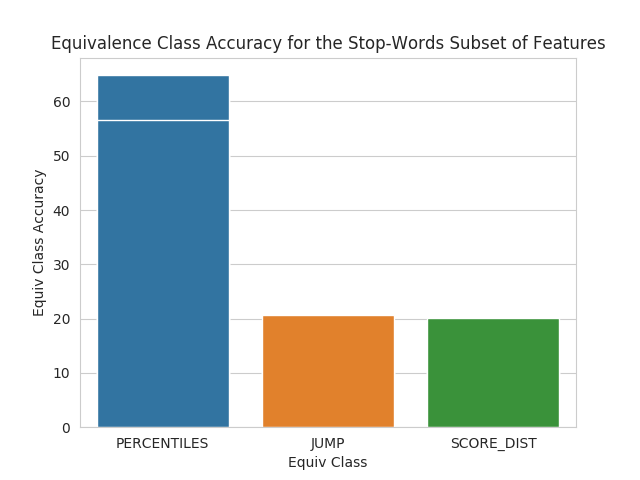
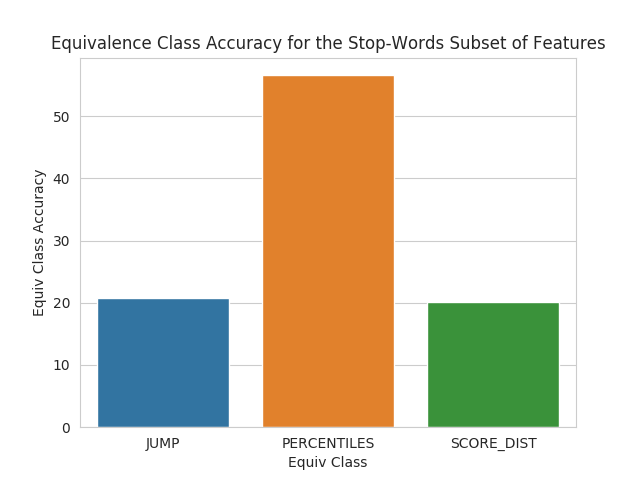
There's graphs and stuff
But the important part is that I fixed data pre-processing. It kept on
giving information about users for the worldbuilding dataset. I don't
have time to find a solution so I dumped a new parameter in a method.

diff --git a/src/characterisation/experiments/plotty.py b/src/characterisation/experiments/plotty.py
@@ -70,14 +70,10 @@ def calcAccies(resultsDF):
             # ? I might want a count of how many times each class size is encountered
             # ? so not just how many times they are correct.
 
-            # Just making sure it's initialised and doesn't get overriden
-            equivAccies[f"Correct Class Size {myRow['Class Size']}"] = equivAccies[f"Correct Class Size {myRow['Class Size']}"]
-
             if myRow["Exact User Predicted"]:
                 equivAccies["Correct User Predictions"] += 1
             if myRow["Correct Class Predicted"]:
                 equivAccies["Correct Class Predictions"] += 1
-                equivAccies[f"Correct Class Size {myRow['Class Size']}"] += 1
 
         equivAccies["Equiv Class"] = equiv
         equivAccies["User Accuracy"] = 100 * equivAccies["Correct User Predictions"] / numRecords
@@ -96,27 +92,10 @@ def calcAccies(resultsDF):
     return acciesDF
 
 """
-Given the dataframe made from the user and equivalence class accuracies for a single model, 
-make a new dataframe focused on equivalence classes. This new DF should allow for showing the 
-relationship between attributes like class size to accuracy.
-"""
-def calcEquivs(resultsDF):
-    # * Sum up the correct counts for each class size and calculate the accuracy.
-
-    print(completeDF.columns)
-
-    filtSizesDF = completeDF.drop(list(completeDF.filter(regex="String|User")), axis=1)
-    # filtSizesDF = completeDF.filter(regex="Correct Class Size (\d)+|Record Count")
-    print(filtSizesDF.columns)
-    print(filtSizesDF)
-
-    # x-axis class size, y-axis accuracy
-
-"""
 Automatically plots all of the graphs as per the accuracies of the
 generated probabilities.
 """
-def plot(myArgs):
+def plot():
     sns.set_style('whitegrid')
     allDFs = []
 
@@ -133,32 +112,19 @@ def plot(myArgs):
         acciesDF["Feature Set"] = myDir
         acciesDF.fillna(0, inplace=True, axis=1)
 
+        if myDir == "AveragesWords":
+            print(f"DF Cols: {resultsDF.columns}")
+
         plotAccies(acciesDF, myDir)
+        plotEquivs(resultsDF, myDir)
 
         allDFs.append(acciesDF)
         print()
 
-
     completeDF = pd.DataFrame().append(allDFs)
     completeDF.fillna(0, inplace=True)
 
-    calcEquivs(completeDF)
     plotCorr(completeDF)
-
-    # print(completeDF)
-    # print(completeDF.columns)
-
-    # pprint(acciesDF[acciesDF["Equivalence Method"] == "JUMP"])
-
-    # #Plot the relationship between class accuracy and class size
-    # plotti = sns.scatterplot(x="kernel", y="Class Accuracy", hue="Equivalence Method", data=acciesDF) \
-    #             .set_title("Relation between class accuracy and SVM Kernel")
-    # # plotti = sns.violinplot(x="Equivalence Method", y="Class Accuracy", data=acciesDF) \
-    #     # .set_title("Comparision between equivalence class methods")
-    # # plotti = sns.violinplot(x="" data=acciesDF)
-    # # plotti = sns.heatmap(acciesDF.corr()).set_title("Correlation between class accuracy and user accuracy")
-
-    # plt.show()
 
 """
 Plot the graphs relating to the accuracy of equivalence class predictions 
@@ -167,6 +133,8 @@ and user predictions.
 def plotAccies(acciesDF, featureSubset, chartType=ChartType.BAR):
     plotTitle = f"Equivalence Class Accuracy for the {formatSubsets(featureSubset)} Subset of Features"
     plotti = None
+
+    plt.clf() # ! Clearing plots so they don't overlap
 
     if chartType == ChartType.BAR:
         plotti = sns.barplot(x="Equiv Class", y="Equiv Class Accuracy", data=acciesDF)\
@@ -183,7 +151,7 @@ def plotCorr(completeDF):
 
     # ? Makes a seaborn correlation plot for each equiv class
     for equiv in equivs:
-        plt.clf()
+        plt.clf() # ! Clearing plots so they don't overlap
         equivSubset = filtAccies[filtAccies["Equiv Class"] == equiv]
 
         plotti = sns.heatmap(equivSubset.drop("Equiv Class", axis=1).corr())\
@@ -191,24 +159,86 @@ def plotCorr(completeDF):
         plotti.get_figure().savefig(os.path.join(dataPath, f"{equiv}_Correlation.png"))
 
 """
-Plot the graphs showing the relationship between equivalence class sizes and accuracy
+Given the dataframe made from the user and equivalence class accuracies for a single model, 
+make a new dataframe focused on equivalence classes. This new DF should allow for showing the 
+relationship between attributes like class size to accuracy.
 """
-def plotSizes(sizesDF, featureSubset, chartType=ChartType.BAR):
-    plotTitle = f"Equivalence Class Size-Accuracy Relationship"
-    plotti = None
+def plotEquivs(resultsDF, featureSubset):
+    # * Sum up the correct counts for each class size and calculate the accuracy.
+    plotTitle = f"Equivalence Class Size-Accuracy Relationship ({formatSubsets(featureSubset)} Subset)"
+    allAccies = []
+    sizesDF = []
 
-    if chartType == ChartType.BAR:
-        plotti = sns.barplot(x="Class Size", y="Equiv Class Accuracy", data=sizesDF)\
-            .set_title(plotTitle)
+    plt.clf() # ! Clearing plots so they don't overlap
+
+    equivs = set(resultsDF["Equiv Class"].values)
+    for equiv in equivs:
+        classAccies = defaultdict(lambda: 0)
+        iterDF = resultsDF[resultsDF["Equiv Class"] == equiv]
+
+        print(f"PlotEquivs - Iter DF Shape: {iterDF.shape}")
+
+        for _, myRow in iterDF.iterrows():
+            if myRow["Correct Class Predicted"]:
+                classAccies[f"Correct Class Size {myRow['Class Size']} Predictions"] += 1
+            else:
+                classAccies[f"Incorrect Class Size {myRow['Class Size']} Predictions"] += 1
+
+        classAccies["Equiv Class"] = equiv
+
+        # Getting all the unique class sizes
+        classSizes = set([int(keySplit) for myKey in classAccies.keys()\
+                            for keySplit in myKey.split() if keySplit.isdigit()])
+
+        for size in classSizes:
+            sizeDict = defaultdict(lambda: 0)
+
+            correctRegex = re.compile(f"Correct Class Size {size} Predictions")
+            incorrectRegex = re.compile(f"Incorrect Class Size {size} Predictions")
+
+            # Making sure both entries are initialised
+            classAccies[f"Correct Class Size {size} Predictions"]\
+                = classAccies[f"Correct Class Size {size} Predictions"]
+            classAccies[f"Incorrect Class Size {size} Predictions"]\
+                = classAccies[f"Incorrect Class Size {size} Predictions"]
+            
+            numCorrect = classAccies[list(filter(correctRegex.match, classAccies.keys()))[0]]
+            numIncorrect = classAccies[list(filter(incorrectRegex.match, classAccies.keys()))[0]]
+
+            classAccies[f"Class Size {size} Accuracy"] = 100 * numCorrect / (numCorrect + numIncorrect)
+            
+            sizeDict["Equiv Class"] = equiv
+            sizeDict["Class Size"] = size
+            sizeDict["Class Count"] = numCorrect + numIncorrect
+            sizeDict["Accuracy"] = 100 * numCorrect / (numCorrect + numIncorrect)
+
+            sizesDF.append(dict(sizeDict))
+        allAccies.append(dict(classAccies))
     
-    plt.show()
+    sizesDF = pd.DataFrame(sizesDF)
+    
+    if featureSubset == "Stop_Rich_AvgWords":
+        print(sizesDF)
 
+    # plotti = sns.scatterplot(x="Class Size", y="Accuracy", hue="Equiv Class", data=sizesDF)\
+    #   .set_title(plotTitle)
+    # plotti.savefig(os.path.join(dataPath, featureSubset, "SizeAccuracy.png"))
+    
+    # ? Plotting a line of best fit on a scatter graph
+    # //plotti = sns.lmplot(x="Class Size", y="Accuracy", data=sizesDF)
+    
+    # //plt.title(plotTitle)
+    # //plt.xlim(0, None)
+    # //plt.ylim(0, None)
+
+    # //myFig = plt.gcf()
+    # //myFig.set_size_inches(10, 7.5)
+
+    # //myFig.savefig(os.path.join(dataPath, featureSubset, "SizeAccuracyLOBF.png"))
+
+    plotti = sns.lineplot(x="Class Size", y="Class Count", hue="Equiv Class", data=sizesDF)\
+        .set_title("Class Size Occurrences")
+    plotti.get_figure().savefig(os.path.join(dataPath, featureSubset, "SizeOccurrences.png"))
 
 if __name__ == "__main__":
-    myParser = ArgumentParser()
-
-    myParser.add_argument("--dataFile", help="The data file to plot into a graph.")
-
-    myArgs = myParser.parse_args()
-
-    plot(myArgs)
+    plot()

diff --git a/src/characterisation/helpers/stack.py b/src/characterisation/helpers/stack.py
@@ -28,8 +28,8 @@ def cleanBody(df, index, row):
     cleaner = re.compile("<.*?>|\r?\n|\r")
     df.at[index, "Body"] = re.sub(cleaner, "", str(oldBody))
 
-def restrict(df, commentDF, limit=5):
-    userDict = preRestriction(df, commentDF, limit)
+def restrict(df, commentDF, limit=5, myDataset=dataset):
+    userDict = preRestriction(df, commentDF, limit, myDataset)
     # userDict = miniPreRestriction(df)
 
     initNumUsers = len(userDict)
@@ -43,13 +43,15 @@ def restrict(df, commentDF, limit=5):
 
     return newDF, userDict, initNumUsers
 
-def preRestriction(df, commentDF, limit=5):
+def preRestriction(df, commentDF, limit=5, myDataset=dataset):
     userDict = defaultdict(lambda: 0)
 
     try:
         #Load a pre-filtered dataset if it exists
         print("Attempting to use cached prefiltered dataset...")
-        userDict = fileIO.loadJSON(f"preRestrict_{dataset.split('.')[0]}.json")
+        print(dataset.split('.')[0])
+        print(myDataset.split('.')[0])
+        userDict = fileIO.loadJSON(f"preRestrict_{myDataset.split('.')[0]}.json")
     except FileNotFoundError:
         #If it didn't exist, build it
         print("Pre-existing prefiltered dataset does not exist. Building from scratch...")
@@ -79,7 +81,7 @@ def preRestriction(df, commentDF, limit=5):
                     cleanBody(df, index, row)
                     userDict[row["OwnerUserId"]] += 1
         #Saving the prefiltered dataset                    
-        fileIO.saveJSON(userDict, f"preRestrict_{dataset.split('.')[0]}.json")
+        fileIO.saveJSON(userDict, f"preRestrict_{myDataset.split('.')[0]}.json")
     else:
         print("Cached prefiltered dataset located...")
     
@@ -125,9 +127,13 @@ def execRestrict(myDataset, limit=rowLimit):
     allPosts = None
     allComments = None
 
+    execDataset = None
+
     if myDataset == "worldbuilding":
+        execDataset = worldbuilding
         dataset = worldbuilding
     elif myDataset == "serverfault":
+        execDataset = serverfault
         dataset = serverfault
 
     print("Loading data into dataframe...")
@@ -146,13 +152,14 @@ def execRestrict(myDataset, limit=rowLimit):
     else:
         print("Cached dataframe located...\n")
 
+    print(dataset.split('.')[0])
     print(f"Initial number of Posts:\t{allPosts.shape[0]}")
 
     #! Uncomment this when I'm done getting output for the report
-    #// newPosts, _, _ = restrict(allPosts, allComments)
+    #// newPosts, _, _ = restrict(allPosts, allComments, myDataset=execDataset)
 
     #! The following line is just for my report
-    newPosts, userDict, initNumUsers = restrict(allPosts, allComments)    
+    newPosts, userDict, initNumUsers = restrict(allPosts, allComments, myDataset=execDataset)    
 
     newPosts = newPosts[:limit] if limit is not None else newPosts
     savePath = "miniRestrictedPosts.csv" if limit is not None else "RestrictedPosts.csv"

diff --git a/src/characterisation/helpers/reduction.py b/src/characterisation/helpers/reduction.py
@@ -89,7 +89,7 @@ def initEncoder(trainShape, factor=4):
     #Deep AutoEncoding, scaling down by factor over the course of 4 layers
     #16 is just a hyper-parameter for the number of time steps in the ConvNet
     inputLayer = Input(shape=(numFeatures, 1))
-    xEnc = Conv1D(8, 4, activation="relu", padding="same")(inputLayer)
+    xEnc = Conv1D(8, 4z, activation="relu", padding="same")(inputLayer)
     print(f"\n1st Conv, xEnc Shape: {xEnc.shape}")
     xEnc = MaxPooling1D(int(factor ** 0.5), padding="same")(xEnc)
     print(f"1st Max Pooling, xEnc Shape: {xEnc.shape}")
